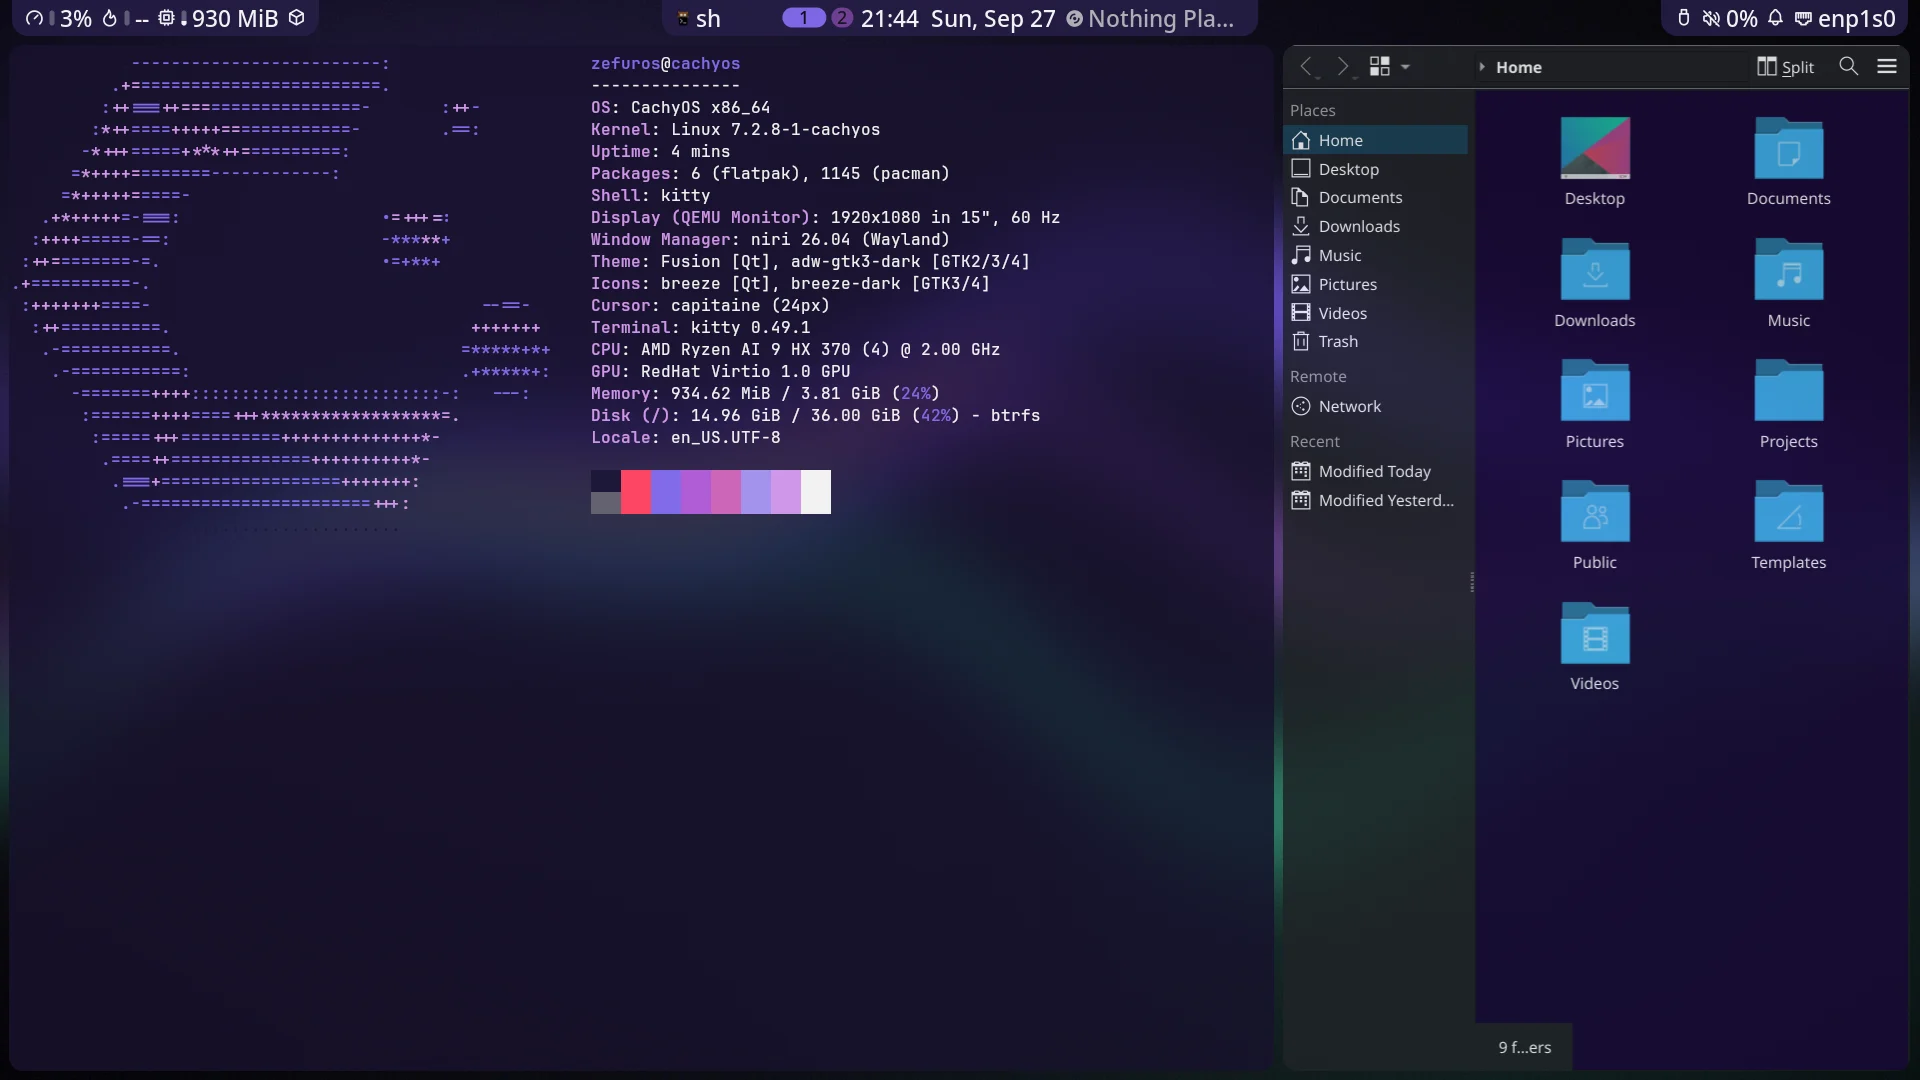
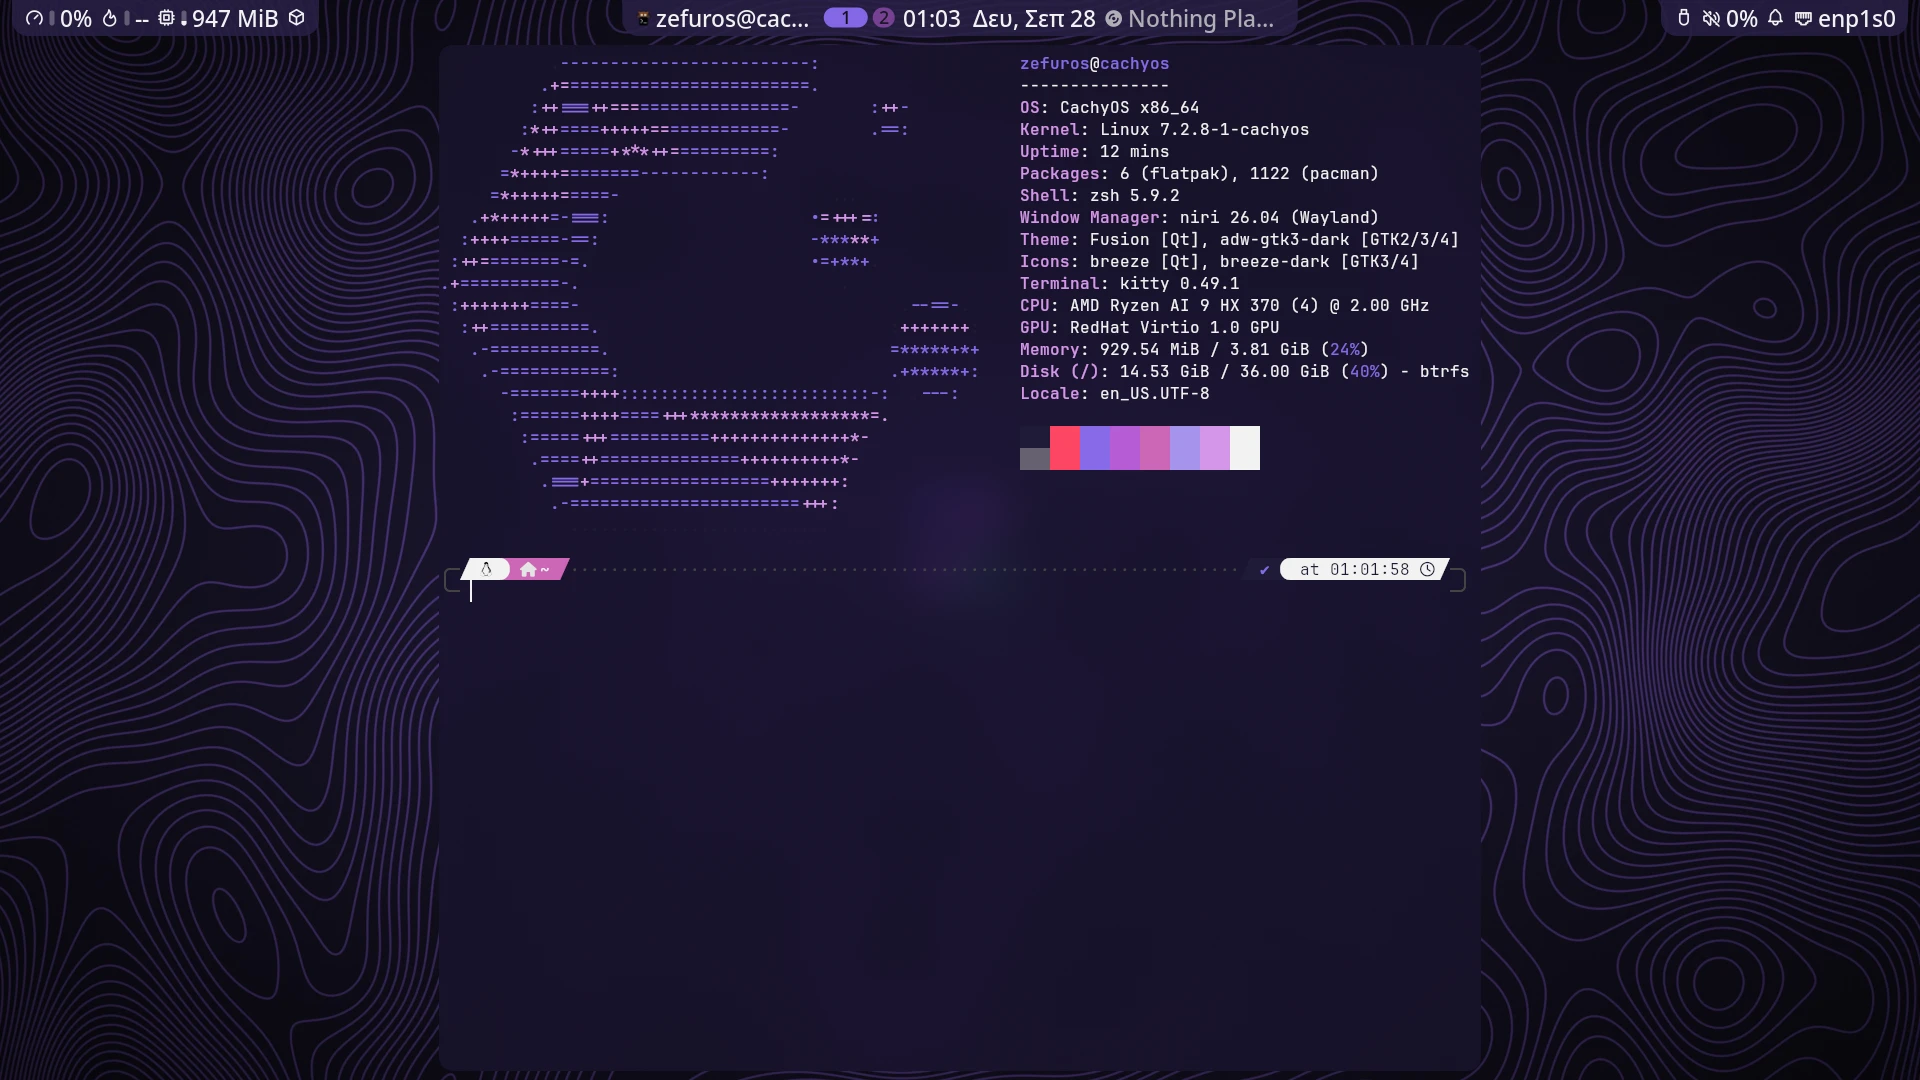
New README screenshots showing more wallpapers and colours
Four shots on four different wallpapers so you can see the colours change,
plus two empty desktops with just the wallpaper and the bar. Dolphin is left
out because it doesn't pick up the new colours until you reopen it.

Claude-Session: https://claude.ai/code/session_01TR4GFVwPar8uAdV8mnzcZF

diff --git a/README.md b/README.md
@@ -21,11 +21,17 @@ What you get:
 
 ## Screenshots
 
-![kitty and Dolphin side by side on niri](docs/screenshots/desktop.webp)
+The whole desktop takes its colours from the wallpaper, so every screenshot below looks different.
+
+![kitty with fastfetch on the violet topo wallpaper](docs/screenshots/desktop.webp)
 
 | Launcher | Control center | Overview |
 |---|---|---|
-| ![Noctalia launcher](docs/screenshots/launcher.webp) | ![Noctalia control center](docs/screenshots/control-center.webp) | ![niri overview](docs/screenshots/overview.webp) |
+| ![Noctalia launcher on an orange wallpaper](docs/screenshots/launcher.webp) | ![Noctalia control center on a blue wallpaper](docs/screenshots/control-center.webp) | ![niri overview on a green wallpaper](docs/screenshots/overview.webp) |
+
+| Empty desktop | Empty desktop |
+|---|---|
+| ![The red topo wallpaper with only the bar](docs/screenshots/empty-topo-ember.webp) | ![The mark wallpaper with only the bar](docs/screenshots/empty-mark.webp) |
 
 ## Install
 
@@ -76,7 +82,7 @@ The full list is in `stow/niri/.config/niri/cfg/keybinds.kdl`.
 
 ## Wallpapers
 
-ZeXOS comes with 15 wallpapers of its own, in 5 styles and several colours each. The installer copies them to `~/Pictures/Wallpapers`, and you start on `zexos-aurora` (the one in the screenshot above). The login screen starts with it too.
+ZeXOS comes with 15 wallpapers of its own, in 5 styles and several colours each. The installer copies them to `~/Pictures/Wallpapers`, and you start on `zexos-aurora`. The login screen starts with it too.
 
 ![The ZeXOS wallpapers](docs/screenshots/wallpapers.webp)
 
